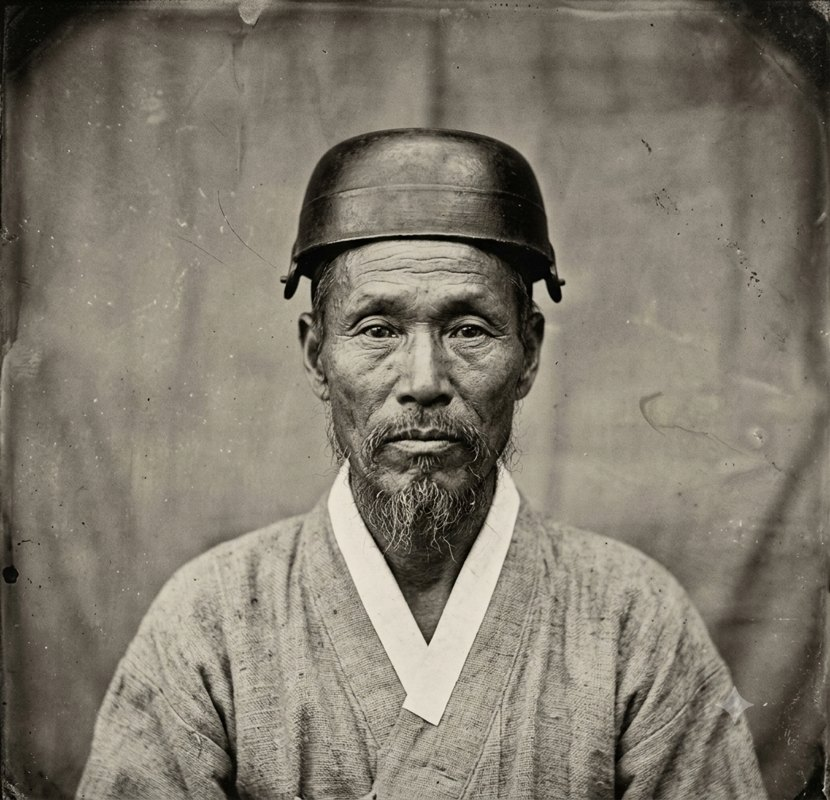
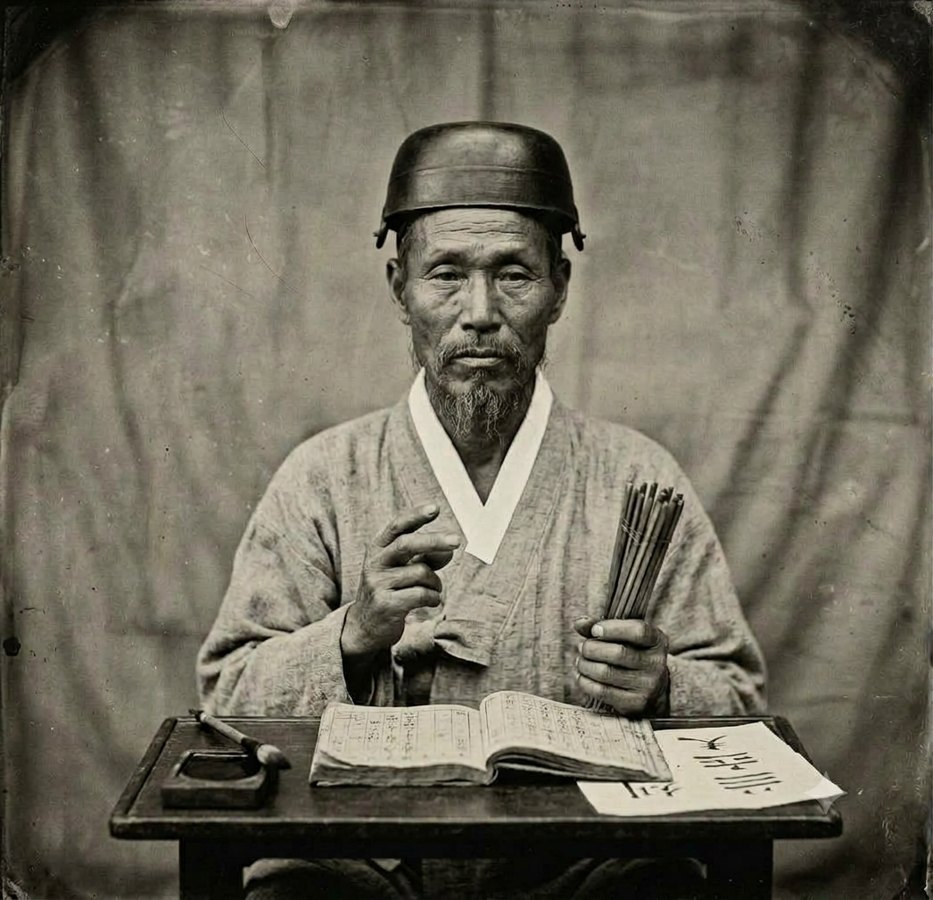
토정 초상 확정: 산가지와 책력 든 1890년대 사진

diff --git a/public/tojeong/index.html b/public/tojeong/index.html
@@ -20,7 +20,7 @@ body{margin:0;background:var(--bg);color:var(--fg);font-family:var(--body);line-
 h1{font-family:var(--display);font-weight:700;font-size:28px;text-align:center;color:var(--gold);letter-spacing:.08em;margin:36px 0 10px;text-wrap:balance}
 .meta{text-align:center;color:var(--dim);font-size:12px;letter-spacing:.1em;border-top:1px solid var(--line);border-bottom:1px solid var(--line);padding:8px 0;margin-bottom:28px}
 .portrait{width:200px;height:260px;margin:0 auto 28px;border-radius:50%/50%;border:1px solid var(--line);background:radial-gradient(ellipse at 50% 35%,#2a211a 0%,#120e0b 70%);display:flex;align-items:center;justify-content:center;overflow:hidden}
-.portrait img{width:100%;height:100%;object-fit:cover;object-position:50% 30%;display:block}
+.portrait img{width:100%;height:100%;object-fit:cover;object-position:50% 26%;display:block}
 .story{text-align:center;font-size:16.5px;line-height:1.95;color:var(--fg);text-wrap:balance}
 .story p{margin:0 0 22px}
 .btn{display:block;width:100%;max-width:280px;margin:28px auto 0;padding:14px;background:transparent;border:1px solid var(--gold);color:var(--gold);font-family:var(--display);font-size:18px;letter-spacing:.1em;cursor:pointer}

diff --git a/public/tojeong/v3.html b/public/tojeong/v3.html
@@ -20,7 +20,7 @@ body{margin:0;background:var(--bg);color:var(--fg);font-family:var(--body);line-
 h1{font-family:var(--display);font-weight:700;font-size:28px;text-align:center;color:var(--gold);letter-spacing:.08em;margin:36px 0 10px;text-wrap:balance}
 .meta{text-align:center;color:var(--dim);font-size:12px;letter-spacing:.1em;border-top:1px solid var(--line);border-bottom:1px solid var(--line);padding:8px 0;margin-bottom:28px}
 .portrait{width:200px;height:260px;margin:0 auto 28px;border-radius:50%/50%;border:1px solid var(--line);background:radial-gradient(ellipse at 50% 35%,#2a211a 0%,#120e0b 70%);display:flex;align-items:center;justify-content:center;overflow:hidden}
-.portrait img{width:100%;height:100%;object-fit:cover;object-position:50% 30%;display:block}
+.portrait img{width:100%;height:100%;object-fit:cover;object-position:50% 26%;display:block}
 .story{text-align:center;font-size:16.5px;line-height:1.95;color:var(--fg);text-wrap:balance}
 .story p{margin:0 0 22px}
 .btn{display:block;width:100%;max-width:280px;margin:28px auto 0;padding:14px;background:transparent;border:1px solid var(--gold);color:var(--gold);font-family:var(--display);font-size:18px;letter-spacing:.1em;cursor:pointer}
